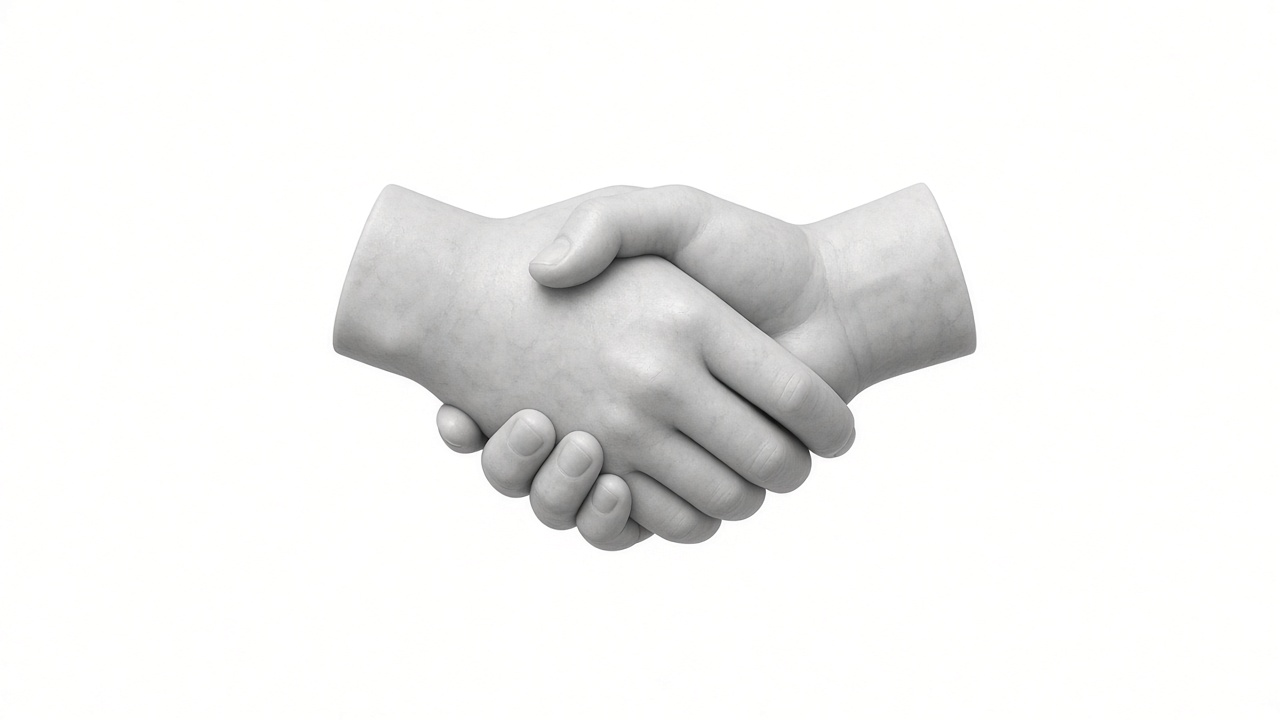
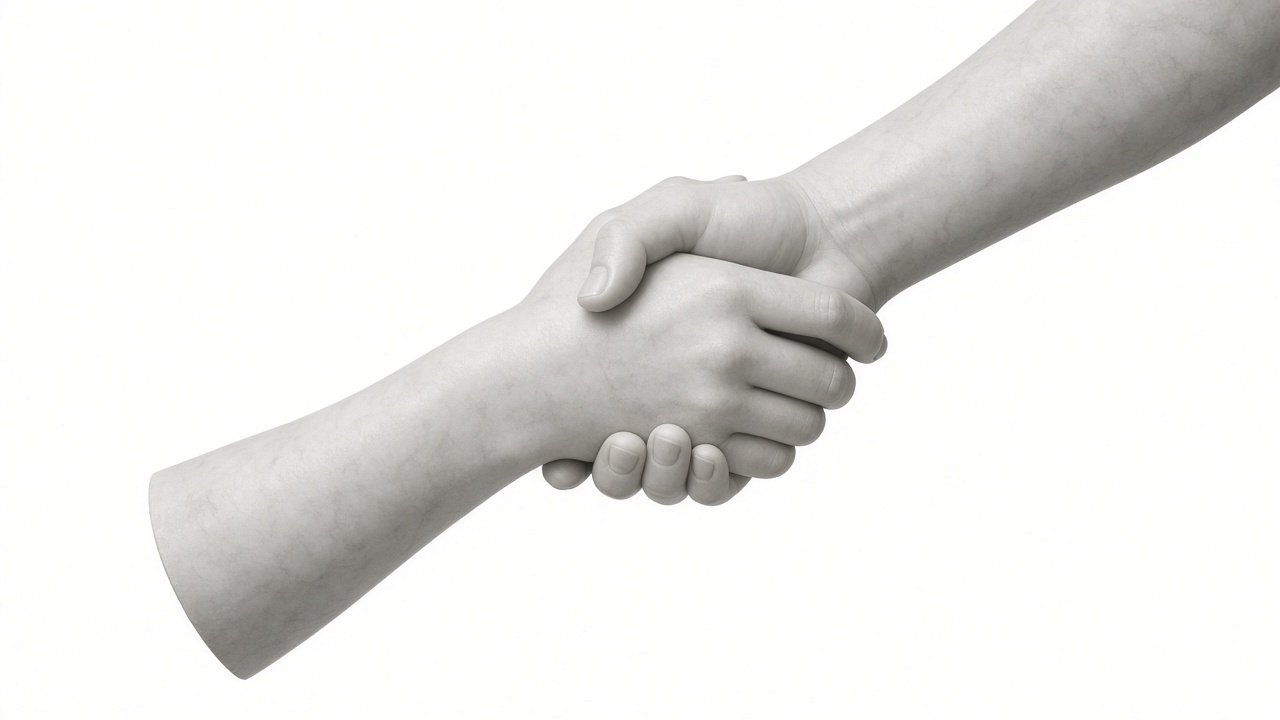
Why Synergy heroes: writing-grip quill, larger palm with scale, diagonal bare handshake; matched crops

Changed region(s): [[0.0938, 0.0, 1.0, 0.9472]]

diff --git a/src/routes/why-synergy.business-impact.tsx b/src/routes/why-synergy.business-impact.tsx
@@ -414,10 +414,10 @@ function BusinessImpactPage() {
         <HalftoneHandStill
           src={whyImpactAsset.url}
           contrast={1.25}
-          cropX={0.065}
-          cropW={0.867}
-          cropY={0.069}
-          cropH={0.884}
+          cropX={0.0}
+          cropW={0.981}
+          cropY={0.0}
+          cropH={1.0}
           pitch={6}
           className="pointer-events-none absolute select-none"
           style={{

diff --git a/src/routes/why-synergy.security.tsx b/src/routes/why-synergy.security.tsx
@@ -255,10 +255,10 @@ function SecurityPage() {
         <HalftoneHandStill
           src={whySecurityAsset.url}
           contrast={1.7}
-          cropX={0.21}
-          cropW={0.566}
-          cropY={0.2215}
-          cropH={0.577}
+          cropX={0.166}
+          cropW={0.834}
+          cropY={0.05}
+          cropH={0.85}
           pitch={6}
           className="pointer-events-none absolute select-none"
           style={{

diff --git a/src/routes/why-synergy.technology.tsx b/src/routes/why-synergy.technology.tsx
@@ -680,10 +680,10 @@ function TechnologyPage() {
         <HalftoneHandStill
           src={whyTechnologyAsset.url}
           contrast={1.7}
-          cropX={0.019}
-          cropW={0.981}
-          cropY={0.0}
-          cropH={1.0}
+          cropX={0.097}
+          cropW={0.903}
+          cropY={0.08}
+          cropH={0.92}
           pitch={6}
           className="pointer-events-none absolute select-none"
           style={{

diff --git a/src/routes/why-synergy.stories.tsx b/src/routes/why-synergy.stories.tsx
@@ -598,10 +598,10 @@ function StoriesPage() {
         <HalftoneHandStill
           src={whyStoriesAsset.url}
           contrast={1.7}
-          cropX={0.0}
-          cropW={0.981}
-          cropY={0.0}
-          cropH={1.0}
+          cropX={0.117}
+          cropW={0.883}
+          cropY={0.03}
+          cropH={0.9}
           pitch={6}
           className="pointer-events-none absolute select-none"
           style={{
